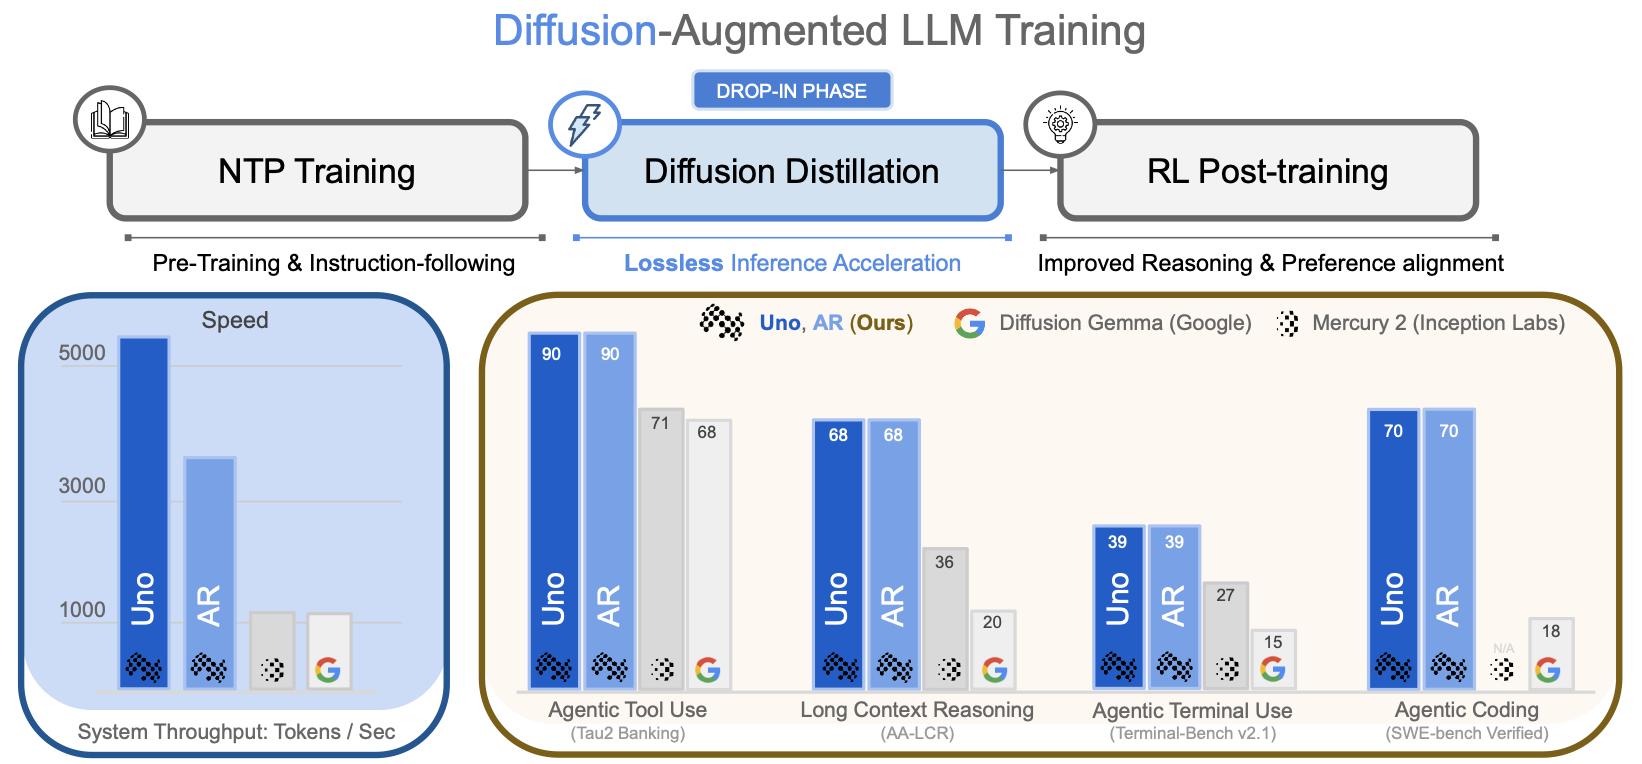
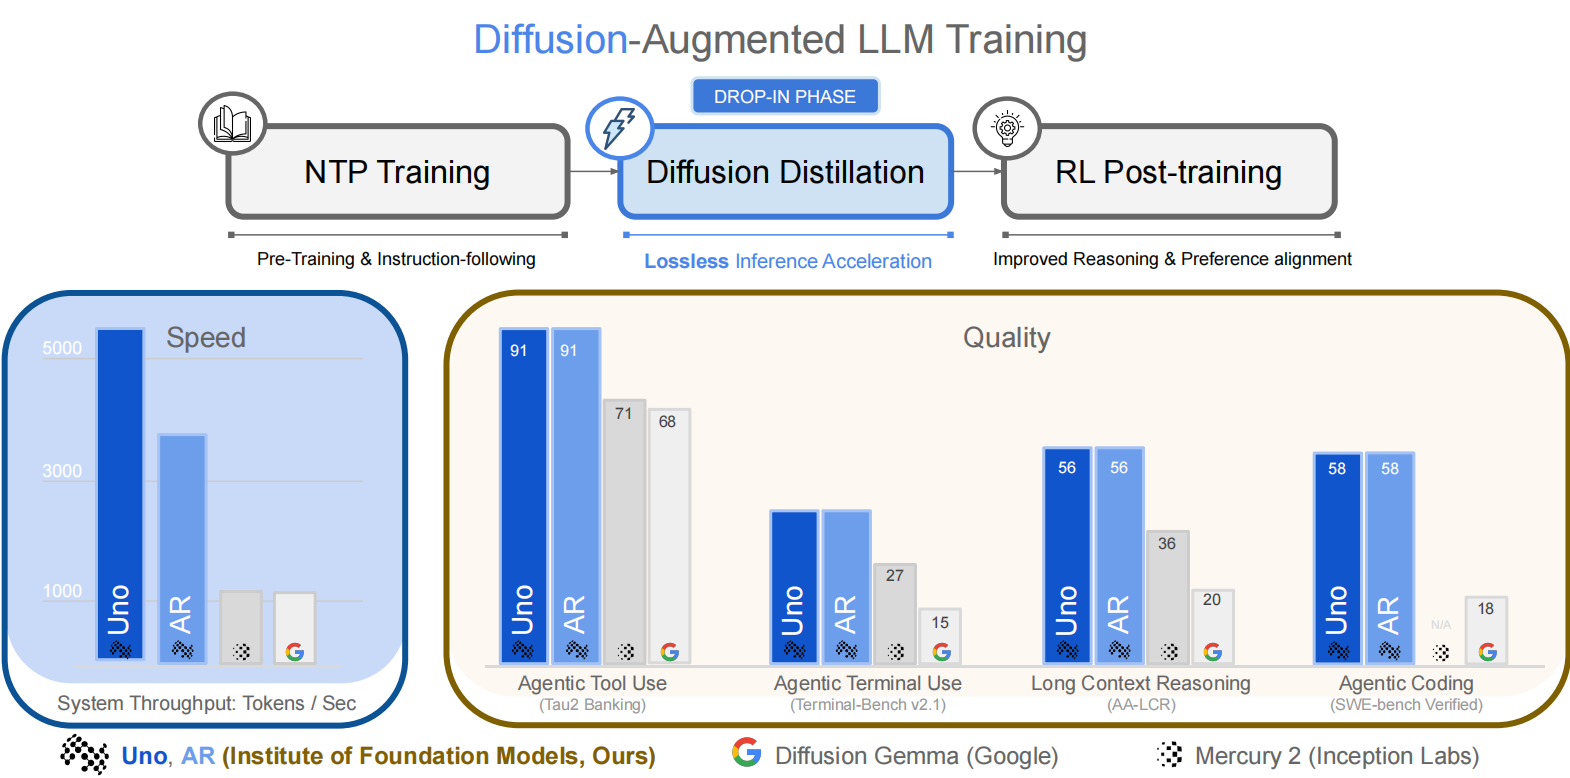
docs: update paper metadata and teaser

Changed region(s): [[0.0, 0.0, 1.0, 0.9935]]

diff --git a/README.md b/README.md
@@ -1,11 +1,11 @@
 <div align="center">
-  <h1><a href="https://github.com/ifm-ai/uno">Uno</a></h1>
+  <h1><a href="https://s-sahoo.com/uno/">Unlocking Lossless Speedups in LLMs via Discrete Diffusion</a></h1>
   <p>
     <a href="https://s-sahoo.github.io">Subham Sekhar Sahoo</a>,
     <a href="https://lingjiechen2.github.io">Lingjie Chen</a>,
     <a href="https://drproduck.github.io">Khiem Pham</a>,
     <a href="https://j-geuter.github.io">Jonathan Geuter</a>,
-    Junlin Chen,<br>
+    <a href="https://www.linkedin.com/in/junlin110/">Junlin Chen</a>,<br>
     <a href="https://scholar.google.com/citations?user=ghpn6JkAAAAJ&amp;hl=en">Chaitanya Dwivedi</a>,
     <a href="https://nightlessbaron.github.io">Varad Pimpalkhute</a>,
     <a href="https://akhauriyash.github.io">Yash Akhauri</a>,
@@ -22,12 +22,13 @@
     <a href="https://hunterhector.github.io">Zhengzhong Liu</a>
   </p>
   <p>
-    <a href="https://arxiv.org/abs/XXXX.XXXXX"><img src="https://img.shields.io/badge/arXiv-coming%20soon-B31B1B.svg" alt="arXiv"></a>
+    <a href="https://arxiv.org/abs/2609.04010"><img src="https://img.shields.io/badge/arXiv-2609.04010-B31B1B.svg" alt="arXiv"></a>
+    <a href="https://s-sahoo.com/uno/"><img src="https://img.shields.io/badge/Project-Page-4B5563.svg" alt="Project Page"></a>
     <a href="https://huggingface.co/IFM/K2-Horizon-7B-Uno"><img src="https://img.shields.io/badge/Hugging%20Face-Uno%208B-FFD21E?logo=huggingface&amp;logoColor=000" alt="Uno 8B"></a>
     <a href="https://huggingface.co/IFM/K2-Horizon-0.9B-Uno"><img src="https://img.shields.io/badge/Hugging%20Face-Uno%201B-FFD21E?logo=huggingface&amp;logoColor=000" alt="Uno 1B"></a>
     <a href="https://huggingface.co/s-sahoo/uno-qwen3-8B"><img src="https://img.shields.io/badge/Hugging%20Face-Uno%20Qwen3%208B-FFD21E?logo=huggingface&amp;logoColor=000" alt="Uno Qwen3 8B"></a>
   </p>
-  <img src="uno_results.png" alt="Uno training pipeline and benchmark results">
+  <a href="https://s-sahoo.com/uno/"><img src="uno_results.png" alt="Uno training pipeline and evaluation results"></a>
 </div>
 
 <br>
@@ -225,7 +226,9 @@ time, TPS, decoder statistics, and TPF. Common controls include
 
 The evaluation workflow uses canonical benchmark settings from
 `evaluation/benchmarks.py`. Generation and grading are separate internally,
-while each model recipe runs both stages through one command.
+while each model recipe runs both stages through one command. See the
+[Uno project page](https://s-sahoo.com/uno/) for the reported evaluation
+results.
 
 #### 1. Prepare Evaluation Data
 
@@ -308,10 +311,13 @@ for attribution and license notices.
 ## Citation
 
 ```bibtex
-@article{uno2026,
-  title   = {},
-  author  = {},
-  journal = {},
-  year    = {2026}
+@misc{sahoo2026unlockinglosslessspeedupsllms,
+      title={Unlocking Lossless Speedups in LLMs via Discrete Diffusion},
+      author={Subham Sekhar Sahoo and Lingjie Chen and Khiem Pham and Jonathan Geuter and Chaitanya Dwivedi and Varad Pimpalkhute and Yash Akhauri and Alexander Moreno and Mikhail Yurochkin and Zhenting Wang and Mostafa Elhoushi and Nolan Dey and Shane Bergsma and Joel Hestness and John Thickstun and Eric Xing and Zhengzhong Liu},
+      year={2026},
+      eprint={2609.04010},
+      archivePrefix={arXiv},
+      primaryClass={cs.LG},
+      url={https://arxiv.org/abs/2609.04010},
 }
 ```
